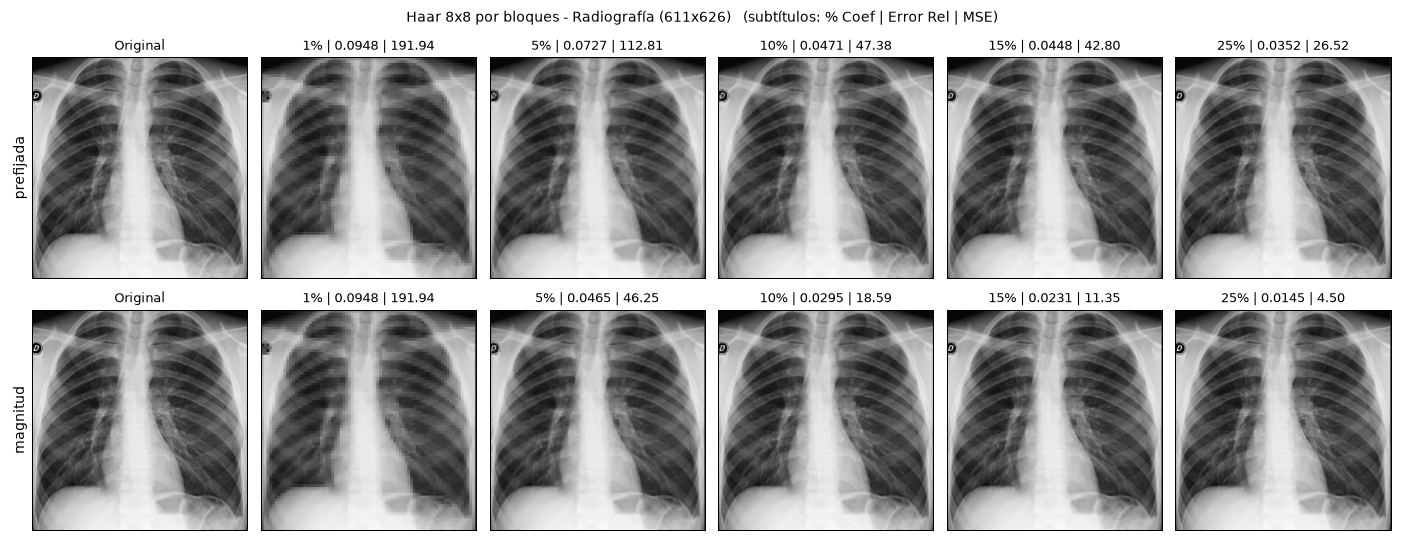
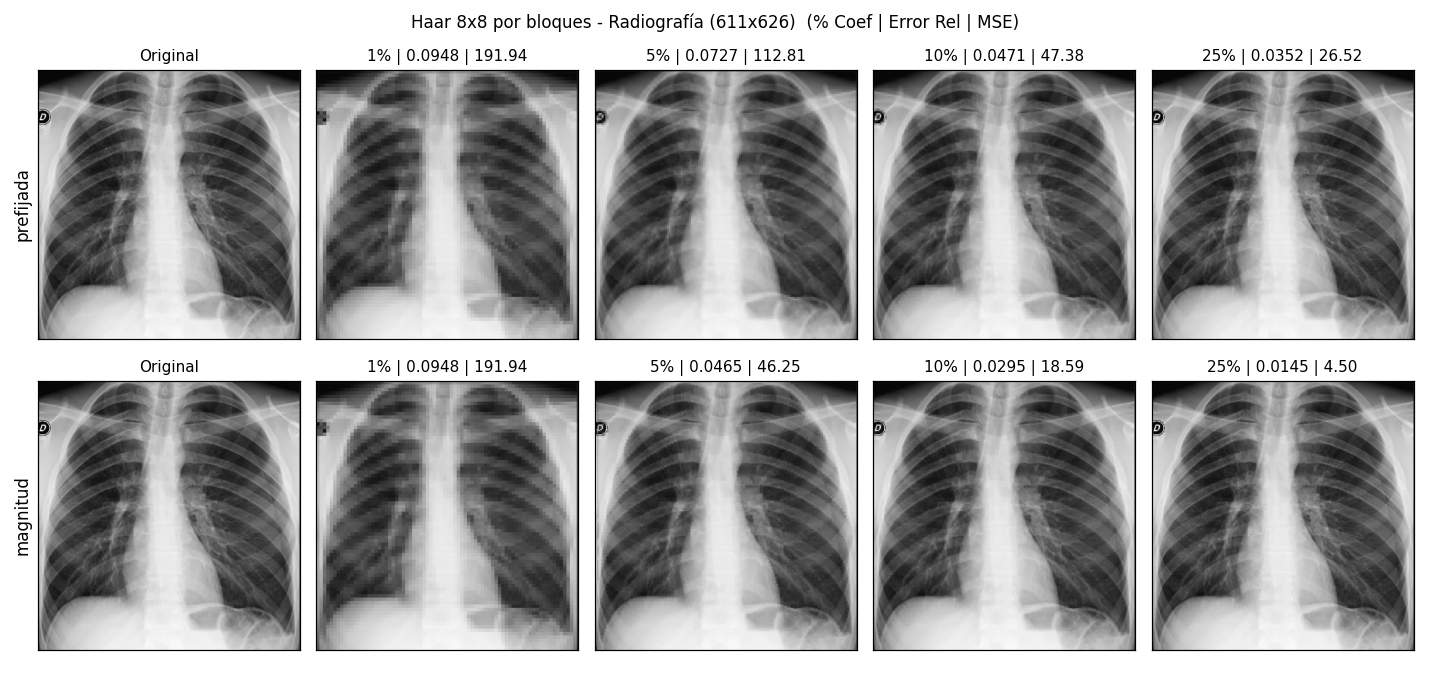
haar

diff --git a/haar Especificaciones.md b/haar Especificaciones.md
@@ -13,32 +13,32 @@ Versión de Haar análoga a `dct_escala_real.py` del grupo. A diferencia de `haa
 pip install -r requirements.txt
 python haar_escala_real.py
 ```
-Lee `imagenes/` y guarda en `resultados_escala_real/` las figuras (`haar_escala_real_*.png`, subtítulos `% Coef | Error Rel | MSE`) y la tabla (`tabla_haar_escala_real.csv` y `.md`). No usa PSNR ni cuantización.
+Lee `imagenes/` y guarda en `resultados_escala_real/` las figuras (`haar_escala_real_*.png`, subtítulos `% Coef | Error Rel | MSE`) y la tabla (`tabla_haar_escala_real.csv`). No usa PSNR ni cuantización.
 
 ## Qué hace (mismo esquema que `dct_escala_real.py`)
-1. Carga la imagen en escala de grises de 8 bits (valores 0–255), tamaño real M × N.
+1. Carga la imagen en escala de grises de 8 bits (valores 0–255), tamaño real $M \times N$.
 2. Padding con `mode="edge"` hasta múltiplos de 8; al final se recorta al tamaño original.
-3. Matriz ortonormal explícita **H₈** (construida de forma recursiva, `H_N = diag(H_{N/2}, I)·etapa(N)`), con verificación `H Hᵀ = I`.
-4. Por cada bloque 8×8: `C = H A Hᵀ`; se conservan **k = max(1, int(64·p))** coeficientes (misma regla que el script de la DCT); `A_rec = Hᵀ M H`. Se verifica Parseval (`‖A‖_F² = ‖C‖_F²`, sumando los bloques) y la reconstrucción exacta al conservar todo.
+3. Matriz ortonormal explícita **$H_8$** (construida de forma recursiva, $H_N = \operatorname{diag}(H_{N/2}, I_{N/2}) \cdot \text{etapa}(N)$), con verificación $H H^T = I$.
+4. Por cada bloque 8×8: $C = H A H^T$; se conservan **$k = \max(1, \lfloor 64 \cdot p \rfloor)$** coeficientes (misma regla que el script de la DCT); $A_{\text{rec}} = H^T M H$. Se verifica Parseval ($\Vert{}A\Vert{}_F^2 = \Vert{}C\Vert{}_F^2$, sumando los bloques) y la reconstrucción exacta al conservar todo.
 5. Reglas de selección (por bloque):
    - **prefijada**: esquina superior izquierda del bloque en cuadrados de escala 1, 2, 4, 8 (el último cuadrado puede quedar incompleto). Las posiciones son fijas, no se almacenan.
-   - **magnitud**: los k coeficientes de mayor |c| de cada bloque; hay que guardar su posición.
-6. Métricas: error relativo `‖A − A_rec‖_F / ‖A‖_F`, MSE (en escala 0–255, tras recortar a [0, 255] como en el script de la DCT), % de coeficientes y tamaño estimado (KB) / bpp.
+   - **magnitud**: los $k$ coeficientes de mayor $\vert{}c\vert{}$ de cada bloque; hay que guardar su posición.
+6. Métricas: error relativo $\Vert{}A - A_{\text{rec}}\Vert{}_F / \Vert{}A\Vert{}_F$, MSE (en escala 0–255, tras recortar a $[0, 255]$ como en el script de la DCT), % de coeficientes y tamaño estimado (KB) / bpp.
 
 ## Decisiones y qué cambia respecto a `haar.py` (256 × 256)
 | Aspecto | `haar.py` | `haar_escala_real.py` |
 |---|---|---|
 | Tamaño | reescalado a 256 × 256 | tamaño real (con padding edge a múltiplos de 8) |
-| Transformada | una sola imagen, Haar multinivel | bloques 8 × 8 independientes, `C = H₈ A H₈ᵀ` (H₈ completa, 3 niveles) |
-| Selección | k global sobre toda la imagen | **k por bloque** (`magnitud` elige dentro de cada bloque) |
-| Escala de píxeles | [0, 1] (MSE pequeño) | 0–255 (MSE ×65 025 respecto a [0, 1]; el error relativo no cambia) |
+| Transformada | una sola imagen, Haar multinivel | bloques 8 × 8 independientes, $C = H_8 A H_8^T$ ($H_8$ completa, 3 niveles) |
+| Selección | $k$ global sobre toda la imagen | **$k$ por bloque** (`magnitud` elige dentro de cada bloque) |
+| Escala de píxeles | $[0, 1]$ (MSE pequeño) | 0–255 (MSE ×65 025 respecto a $[0, 1]$; el error relativo no cambia) |
 | Tamaño estimado | cabecera + valores con ancho de bits dependiente de los datos + 16 bits por posición | **8 bits por valor** (como `bpp = 8/CR` del script de la DCT) + **6 bits por posición** solo en `magnitud` |
 
-- **Porcentajes:** 1, 5, 10, 25 % del grupo **más 15 %**, que es el que usa `dct_escala_real.py` (así se puede comparar directamente). Se quita con la lista `PORCENTAJES`.
-- **1 % con bloques de 64 coeficientes:** 0,64 coeficientes por bloque, así que, igual que en el script de la DCT, se conserva `max(1, int(64·p))`. Por eso los porcentajes reales son: 1 % → k=1 (1,56 %), 5 % → k=3 (4,69 %), 10 % → k=6 (9,38 %), 15 % → k=9 (14,06 %), 25 % → k=16 (25 %). La tabla muestra `p% (k=…)`. Con k=1 ambas reglas conservan el coeficiente DC y dan el mismo error.
-- **Tamaño estimado:** `bloques · k · (8 [+6 si magnitud]) / 8 / 1024`, con los bloques del tamaño con padding. Es una estimación optimista (valores de 8 bits, sin cabecera) pensada para ser comparable con el script de la DCT; no es la misma convención que `haar.py`, así que los KB de ambos scripts no se comparan entre sí.
-- **Selección exacta:** se escogen exactamente k coeficientes por bloque (en el script de la DCT un umbral `>=` puede conservar más si hay empates).
-- Las dimensiones se informan como ancho × alto (728 × 725); internamente M = filas = 725, N = columnas = 728.
+- **Porcentajes:** 1, 5, 10 y 25 %, alineados exactamente con las tasas evaluadas por el grupo.
+- **1 % con bloques de 64 coeficientes:** 0,64 coeficientes por bloque, así que, igual que en el script de la DCT, se conserva $\max(1, \lfloor 64 \cdot p \rfloor)$. Por eso los porcentajes reales son: 1 % → $k=1$ (1,56 %), 5 % → $k=3$ (4,69 %), 10 % → $k=6$ (9,38 %), 25 % → $k=16$ (25 %). La tabla muestra `p% (k=…)`. Con $k=1$ ambas reglas conservan prácticamente el coeficiente DC y dan el mismo error (o casi idéntico en Resonancia).
+- **Tamaño estimado:** $\text{bloques} \cdot k \cdot (8 [+6 \text{ si magnitud}]) / 8 / 1024$, con los bloques del tamaño con padding. Es una estimación optimista (valores de 8 bits, sin cabecera) pensada para ser comparable con el script de la DCT; no es la misma convención que `haar.py`, así que los KB de ambos scripts no se comparan entre sí.
+- **Selección exacta:** se escogen exactamente $k$ coeficientes por bloque (en el script de la DCT un umbral `>=` puede conservar más si hay empates).
+- Las dimensiones se informan como ancho × alto (728 × 725); internamente $M = \text{filas} = 725$, $N = \text{columnas} = 728$.
 
 ## Resultados
 | Imagen | Regla | % Coef | Error Relativo | MSE | Tamaño estimado (KB) | bpp | Peso original (KB) |
@@ -46,38 +46,33 @@ Lee `imagenes/` y guarda en `resultados_escala_real/` las figuras (`haar_escala_
 | Resonancia (728x725) | prefijada | 1% (k=1) | 0.2553 | 345.45 | 8.1 | 0.126 | 515.4 |
 | Resonancia (728x725) | prefijada | 5% (k=3) | 0.1556 | 128.39 | 24.3 | 0.377 | 515.4 |
 | Resonancia (728x725) | prefijada | 10% (k=6) | 0.1213 | 78.05 | 48.5 | 0.753 | 515.4 |
-| Resonancia (728x725) | prefijada | 15% (k=9) | 0.1164 | 71.85 | 72.8 | 1.130 | 515.4 |
 | Resonancia (728x725) | prefijada | 25% (k=16) | 0.0698 | 25.86 | 129.4 | 2.008 | 515.4 |
-| Resonancia (728x725) | magnitud | 1% (k=1) | 0.2548 | 344.13 | 14.2 | 0.220 | 515.4 |
+| Resonancia (728x725) | magnitud | 1% (k=1) | 0.2549 | 344.55 | 14.2 | 0.220 | 515.4 |
 | Resonancia (728x725) | magnitud | 5% (k=3) | 0.1293 | 88.66 | 42.5 | 0.659 | 515.4 |
 | Resonancia (728x725) | magnitud | 10% (k=6) | 0.0810 | 34.81 | 84.9 | 1.318 | 515.4 |
-| Resonancia (728x725) | magnitud | 15% (k=9) | 0.0588 | 18.35 | 127.4 | 1.977 | 515.4 |
 | Resonancia (728x725) | magnitud | 25% (k=16) | 0.0339 | 6.09 | 226.4 | 3.514 | 515.4 |
 | Radiografía (611x626) | prefijada | 1% (k=1) | 0.0948 | 191.94 | 5.9 | 0.127 | 373.5 |
 | Radiografía (611x626) | prefijada | 5% (k=3) | 0.0727 | 112.81 | 17.8 | 0.382 | 373.5 |
 | Radiografía (611x626) | prefijada | 10% (k=6) | 0.0471 | 47.38 | 35.6 | 0.763 | 373.5 |
-| Radiografía (611x626) | prefijada | 15% (k=9) | 0.0448 | 42.80 | 53.5 | 1.145 | 373.5 |
 | Radiografía (611x626) | prefijada | 25% (k=16) | 0.0352 | 26.52 | 95.0 | 2.036 | 373.5 |
 | Radiografía (611x626) | magnitud | 1% (k=1) | 0.0948 | 191.94 | 10.4 | 0.223 | 373.5 |
 | Radiografía (611x626) | magnitud | 5% (k=3) | 0.0465 | 46.25 | 31.2 | 0.668 | 373.5 |
 | Radiografía (611x626) | magnitud | 10% (k=6) | 0.0295 | 18.59 | 62.4 | 1.336 | 373.5 |
-| Radiografía (611x626) | magnitud | 15% (k=9) | 0.0231 | 11.35 | 93.6 | 2.004 | 373.5 |
 | Radiografía (611x626) | magnitud | 25% (k=16) | 0.0145 | 4.50 | 166.3 | 3.562 | 373.5 |
 | Tomografía (630x425) | prefijada | 1% (k=1) | 0.1514 | 539.26 | 4.2 | 0.127 | 261.5 |
 | Tomografía (630x425) | prefijada | 5% (k=3) | 0.1133 | 301.95 | 12.5 | 0.382 | 261.5 |
 | Tomografía (630x425) | prefijada | 10% (k=6) | 0.0948 | 211.39 | 25.0 | 0.765 | 261.5 |
-| Tomografía (630x425) | prefijada | 15% (k=9) | 0.0892 | 187.02 | 37.5 | 1.147 | 261.5 |
 | Tomografía (630x425) | prefijada | 25% (k=16) | 0.0641 | 96.76 | 66.7 | 2.039 | 261.5 |
 | Tomografía (630x425) | magnitud | 1% (k=1) | 0.1514 | 539.26 | 7.3 | 0.223 | 261.5 |
 | Tomografía (630x425) | magnitud | 5% (k=3) | 0.0936 | 205.84 | 21.9 | 0.669 | 261.5 |
 | Tomografía (630x425) | magnitud | 10% (k=6) | 0.0675 | 107.20 | 43.7 | 1.338 | 261.5 |
-| Tomografía (630x425) | magnitud | 15% (k=9) | 0.0543 | 69.22 | 65.6 | 2.008 | 261.5 |
 | Tomografía (630x425) | magnitud | 25% (k=16) | 0.0363 | 31.05 | 116.6 | 3.569 | 261.5 |
 
-Todas las comprobaciones dieron `True`: `H₈H₈ᵀ = I`, Parseval y reconstrucción exacta al 100 %.
+Todas las comprobaciones dieron `True`: $H_8 H_8^T = I_8$, Parseval y reconstrucción exacta al 100 %.
 
 ## Nota de interpretación
-- Con la regla **prefijada** el error baja despacio al subir k (p. ej. Resonancia 0,2553 → 0,0698 de 1 % a 25 %) y deja un cuadriculado por bloque; con **magnitud** baja mucho más rápido (Resonancia 0,2548 → 0,0339; Radiografía 0,0948 → 0,0145; Tomografía 0,1514 → 0,0363), porque cada bloque guarda sus coeficientes más grandes (bordes y texturas).
+- Con la regla **prefijada** el error baja despacio al subir $k$ (p. ej. Resonancia 0,2553 → 0,0698 de 1 % a 25 %) y deja un cuadriculado por bloque; con **magnitud** baja mucho más rápido (Resonancia 0,2549 → 0,0339; Radiografía 0,0948 → 0,0145; Tomografía 0,1514 → 0,0363), porque cada bloque guarda sus coeficientes más grandes (bordes y texturas).
 - El costo es mayor: al 25 % la regla por magnitud pesa 116,6–226,4 KB frente a 66,7–129,4 KB de la prefijada, por los 6 bits de posición por coeficiente.
-- A igual tamaño estimado, magnitud al 10 % (Resonancia 84,9 KB, error 0,0810) es comparable a prefijada al 15–25 % (72,8–129,4 KB, errores 0,1164–0,0698): el beneficio de elegir por magnitud se reduce cuando se paga el costo de las posiciones.
+- A igual tamaño estimado, magnitud al 10 % (Resonancia 84,9 KB, error 0,0810) es comparable a prefijada al 25 % (129,4 KB, error 0,0698): el beneficio de elegir por magnitud se reduce cuando se paga el costo de las posiciones.
 - La Tomografía es la imagen más difícil (mayor error con cualquier regla), como en la versión 256 × 256.
+
